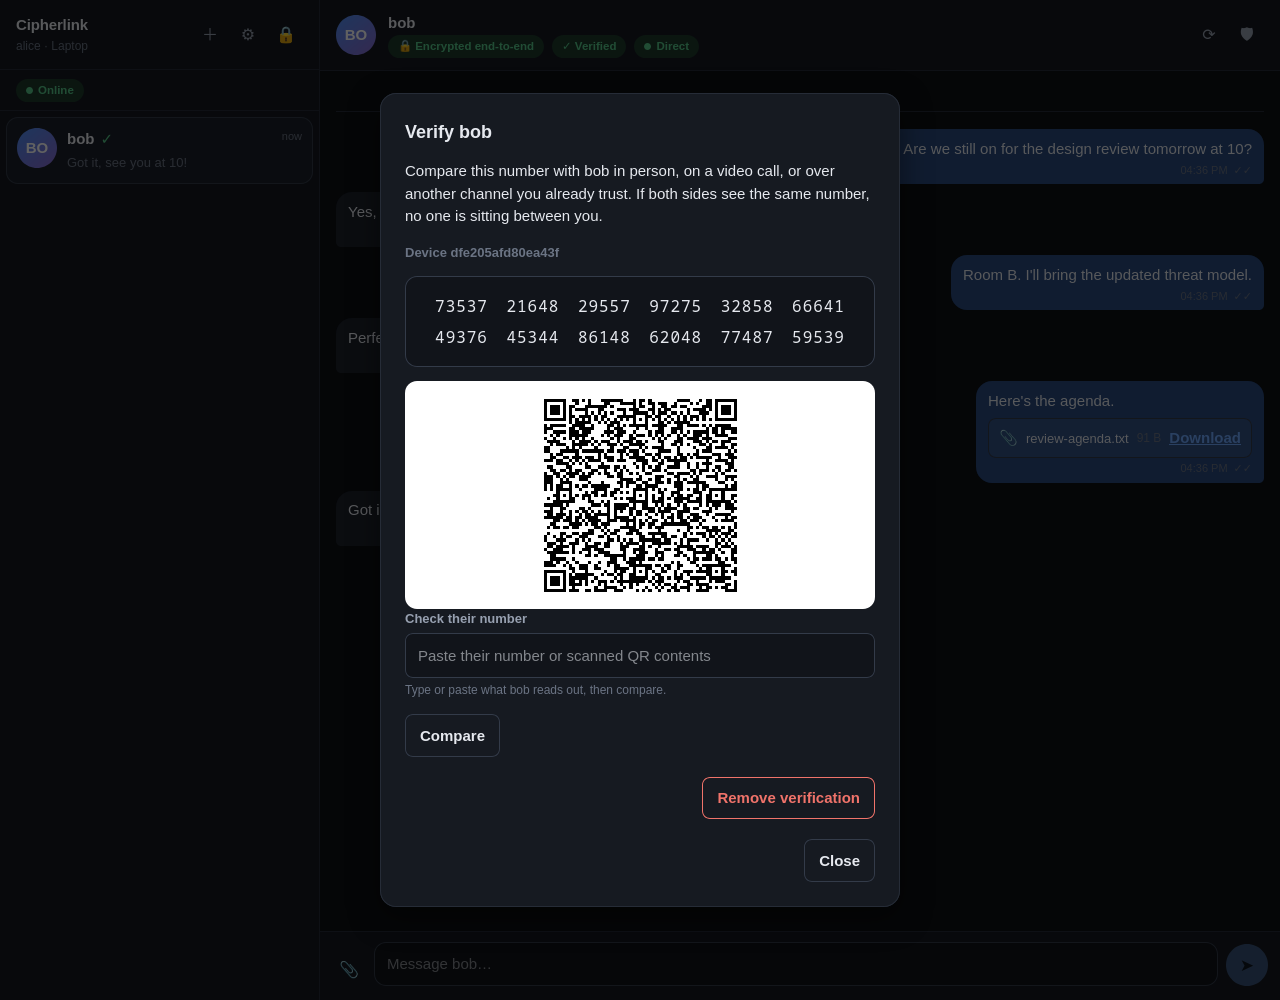
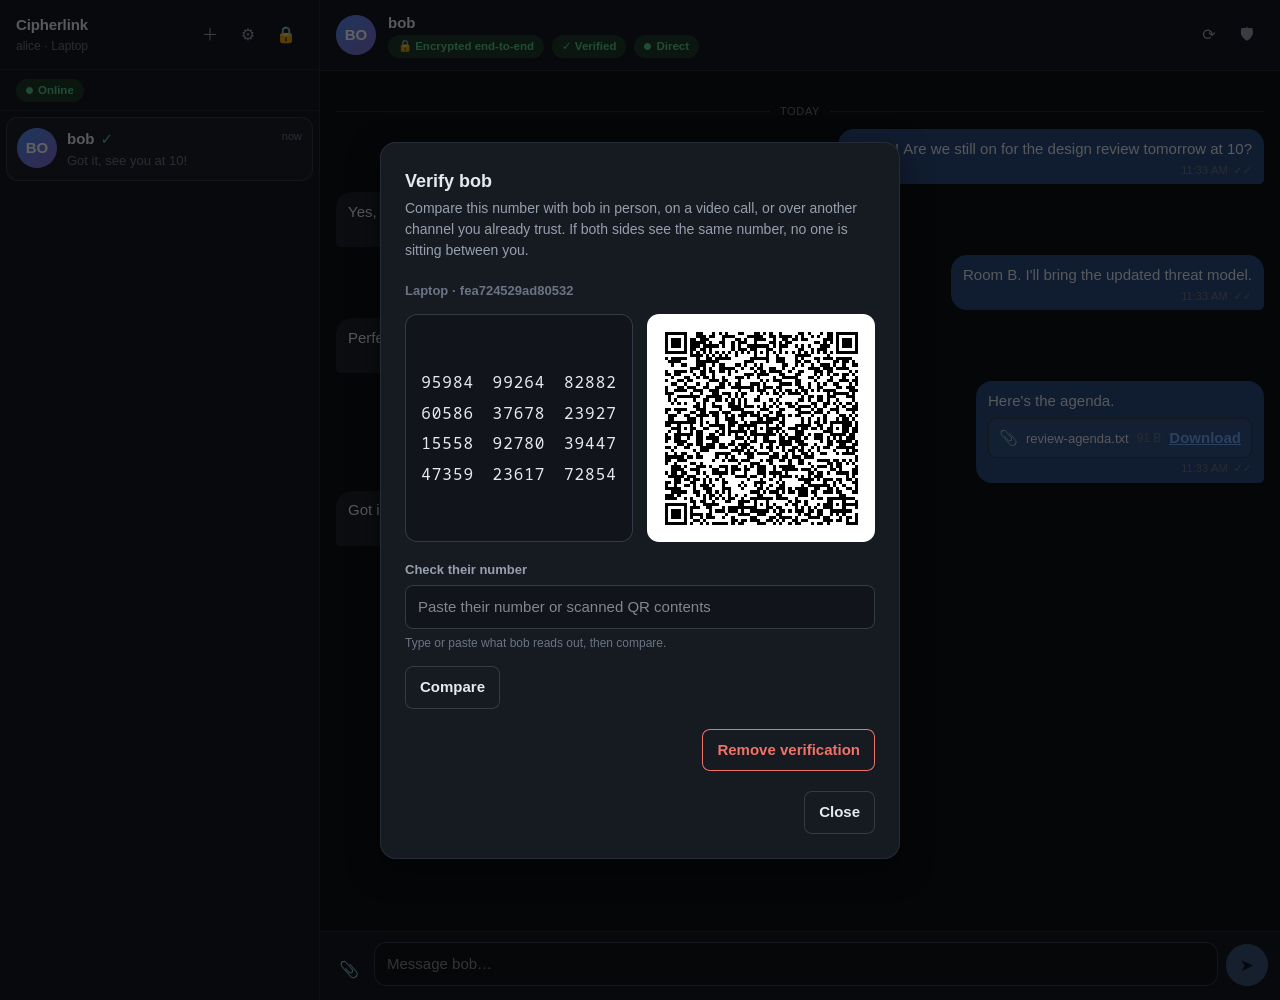
Polish the sidebar and the verify dialog
Long names and previews truncate instead of pushing the trust icon out. The verify dialog puts the safety number beside its QR code, fits short screens, and names each device by its label. Light-theme status colors meet 4.5:1 contrast.

Changed region(s): [[0.2812, 0.093, 0.7188, 0.744], [0.2812, 0.744, 0.7188, 0.93]]

diff --git a/client/src/ui/screens/VerificationModal.tsx b/client/src/ui/screens/VerificationModal.tsx
@@ -25,6 +25,8 @@ import type { IdentityRecord } from '../../identity/trustStore.js';
 
 interface DeviceVerification {
   readonly identity: MlsMemberIdentity;
+  /** The device's name, if the directory gave one when we added the contact. */
+  readonly label: string | undefined;
   readonly safetyNumber: SafetyNumber;
   readonly record: IdentityRecord | undefined;
   readonly qrDataUrl: string;
@@ -71,6 +73,7 @@ export function VerificationModal({
       }
 
       const remotes = identities.filter((identity) => identity !== local);
+      const contact = await ready.repository.getContact(conversation.peerUserId);
       const built = await Promise.all(
         remotes.map(async (identity) => {
           const safetyNumber = await deriveSafetyNumber(local, identity);
@@ -81,6 +84,7 @@ export function VerificationModal({
           });
           return {
             identity,
+            label: contact?.deviceLabels?.[identity.address.deviceId],
             safetyNumber,
             record: ready.trustStore.get(identity.address),
             qrDataUrl,
@@ -91,7 +95,7 @@ export function VerificationModal({
     } catch (caught) {
       setError(caught instanceof Error ? caught.message : 'Could not build the safety number.');
     }
-  }, [ready, conversation.id, version]);
+  }, [ready, conversation.id, conversation.peerUserId, version]);
 
   useEffect(() => {
     void load();
@@ -140,7 +144,13 @@ export function VerificationModal({
         {devices?.map((device) => (
           <section key={`${device.identity.address.userId}:${device.identity.address.deviceId}`}>
             <h3 style={{ fontSize: 13, color: 'var(--text-faint)' }}>
-              Device {device.identity.address.deviceId}
+              {device.label ? (
+                <>
+                  <bdi>{device.label}</bdi> · {device.identity.address.deviceId}
+                </>
+              ) : (
+                `Device ${device.identity.address.deviceId}`
+              )}
             </h3>
 
             {device.record?.state === 'changed' && (
@@ -153,10 +163,11 @@ export function VerificationModal({
               </div>
             )}
 
-            <div className="safety-number">{device.safetyNumber.formatted}</div>
-
-            <div className="qr-holder">
-              <img src={device.qrDataUrl} alt="QR code encoding this conversation's safety number" />
+            <div className="verify-codes">
+              <div className="safety-number">{device.safetyNumber.formatted}</div>
+              <div className="qr-holder">
+                <img src={device.qrDataUrl} alt="QR code encoding this conversation's safety number" />
+              </div>
             </div>
 
             <Field

diff --git a/client/src/ui/styles.css b/client/src/ui/styles.css
@@ -56,8 +56,12 @@
   --bubble-out: #d3e3ff;
   --bubble-in: #eceef2;
   --accent-contrast: #ffffff;
+  /* Darker than the dark theme's tones: at least 4.5:1 on their -dim tints. */
+  --ok: #17753f;
   --ok-dim: #dff3e7;
+  --warn: #8a5a00;
   --warn-dim: #fbf0d4;
+  --danger: #b42318;
   --danger-dim: #fbdedb;
   --shadow: 0 10px 30px rgb(15 23 42 / 12%);
 }
@@ -240,7 +244,15 @@ select {
   white-space: nowrap;
 }
 
+/* Truncates a long name instead of pushing the trust icon out of view. */
+.conversation-name {
+  min-width: 0;
+  overflow: hidden;
+  text-overflow: ellipsis;
+}
+
 .conversation-preview {
+  display: block;
   color: var(--text-faint);
   font-size: 13px;
   overflow: hidden;
@@ -530,7 +542,8 @@ select {
   letter-spacing: -0.02em;
 }
 
-.card .lede {
+.card .lede,
+.modal .lede {
   margin: 0 0 20px;
   color: var(--text-muted);
   font-size: 14px;
@@ -559,6 +572,7 @@ select {
 }
 
 .field .hint {
+  display: block;
   margin-top: 5px;
   font-size: 12px;
   font-weight: 400;
@@ -656,7 +670,9 @@ select {
 .modal {
   width: 100%;
   max-width: 520px;
-  max-height: 88vh;
+  /* All the height the backdrop's padding leaves (dvh: minus mobile toolbars). */
+  max-height: calc(100vh - 40px);
+  max-height: calc(100dvh - 40px);
   overflow-y: auto;
   padding: 24px;
   border: 1px solid var(--border);
@@ -679,8 +695,25 @@ select {
 
 /* ------------------------------------------------------- verification UI */
 
+/* The number beside its QR code, stacking when the dialog is narrow. */
+.verify-codes {
+  display: flex;
+  flex-wrap: wrap;
+  gap: 14px;
+  margin: 14px 0 18px;
+}
+
+.verify-codes .safety-number {
+  flex: 1 1 200px;
+  display: grid;
+  place-items: center;
+}
+
+.verify-codes .qr-holder {
+  margin: 0 auto;
+}
+
 .safety-number {
-  margin: 14px 0;
   padding: 14px;
   border: 1px solid var(--border-strong);
   border-radius: var(--radius);

diff --git a/client/src/messaging/messagingService.ts b/client/src/messaging/messagingService.ts
@@ -238,6 +238,7 @@ export class MessagingService {
       username: directory.username,
       addedAt: this.now(),
       deviceIds: directory.devices.map((d) => d.deviceId),
+      deviceLabels: Object.fromEntries(directory.devices.map((d) => [d.deviceId, d.label])),
     });
 
     for (const member of members) this.options.transport.warmUp(member);
@@ -529,6 +530,9 @@ export class MessagingService {
           username: directory.username,
           addedAt: this.now(),
           deviceIds: directory.devices.map((device) => device.deviceId),
+          deviceLabels: Object.fromEntries(
+            directory.devices.map((device) => [device.deviceId, device.label]),
+          ),
         });
       }
     } catch {

diff --git a/client/src/ui/App.tsx b/client/src/ui/App.tsx
@@ -188,7 +188,7 @@ function ConversationRow({
       </span>
       <span className="conversation-main">
         <span className="conversation-title">
-          {conversation.peerUsername}
+          <span className="conversation-name">{conversation.peerUsername}</span>
           {trust === 'verified' && (
             <span title="Verified" style={{ color: 'var(--ok)' }}>
               ✓

diff --git a/client/src/storage/models.ts b/client/src/storage/models.ts
@@ -57,6 +57,8 @@ export interface Contact {
   readonly username: string;
   readonly addedAt: number;
   readonly deviceIds: string[];
+  /** Device names from the directory, as their owner chose them. Absent in older records. */
+  readonly deviceLabels?: Record<string, string>;
 }
 
 /** Per-conversation protocol bookkeeping. */
